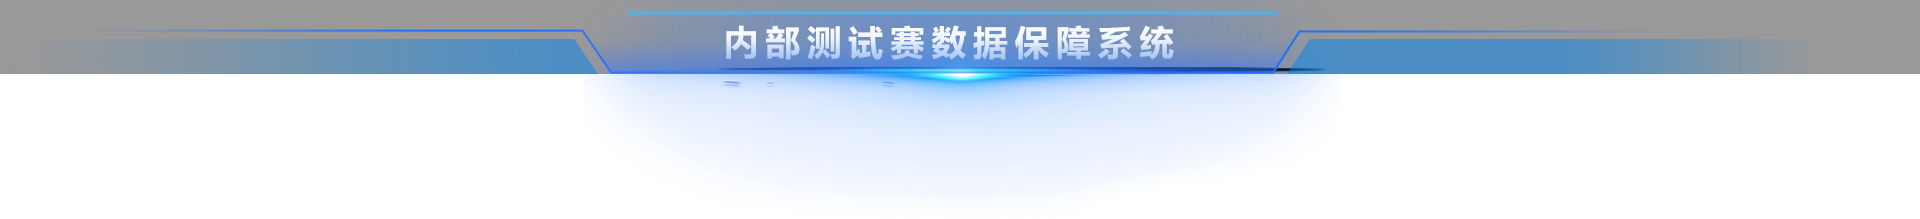
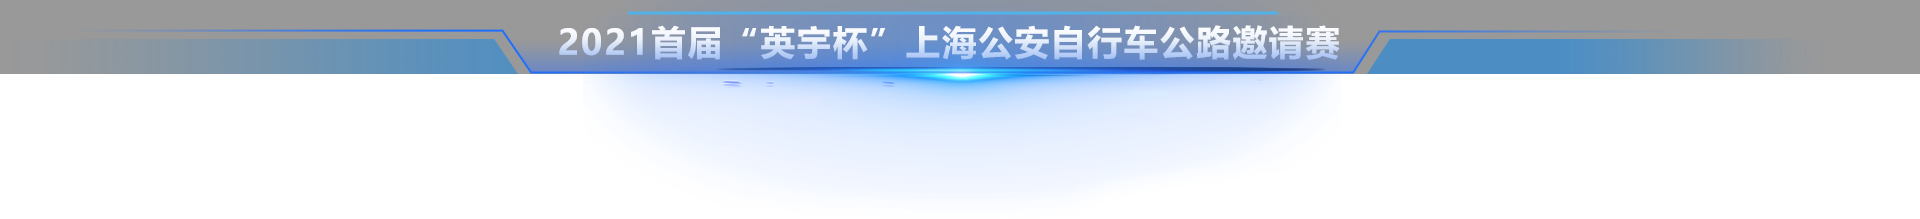
倒计时，直播地址，标题修改

Changed region(s): [[0.25, 0.1096, 0.7188, 0.3562]]

diff --git a/src/views/layout/time.vue b/src/views/layout/time.vue
@@ -14,7 +14,7 @@ export default {
     return {
       isStart: false,
       globalTimer: null, //获取setInterval对象值
-      countString: "0秒", //用来显示时间
+      countString: "", //用来显示时间
       day: 0,
       hour: 0,
       minute: 0,
@@ -59,10 +59,9 @@ export default {
     }
   },
   mounted () {
-    var vm = this;
-    if (vm.autoStart) {
-      vm.startCountFn();
-    }
+
+    this.countDown()
+
   },
   computed: {
     needSendSunc: function () {
@@ -79,6 +78,35 @@ export default {
   },
   components: {},
   methods: {
+    // 倒计时
+    countDown () {
+      const that = this;
+      //设置截止时间
+      let outTime = "2021-05-16 13:00:00"
+      // let outTime = "2021-05-16 13:00:00"
+      let endDate = new Date(outTime).getTime();
+      let timeID = setInterval(function () {
+        //获取当前时间
+        let date = new Date();
+        let startDate = date.getTime();
+        //时间差  
+        let leftTime = endDate - startDate;
+        if (leftTime >= 0) {
+          that.remainD = Math.floor(leftTime / 1000 / 60 / 60 / 24);
+          that.remainH = Math.floor(leftTime / 1000 / 60 / 60 % 24) + that.remainD * 24;
+          that.remainM = Math.floor(leftTime / 1000 / 60 % 60) < 10 ? '0' + Math.floor(leftTime / 1000 / 60 % 60) : Math.floor(leftTime / 1000 / 60 % 60);
+          that.remainS = Math.floor(leftTime / 1000 % 60) < 10 ? '0' + Math.floor(leftTime / 1000 % 60) : Math.floor(leftTime / 1000 % 60);
+          console.log(that.remainH + '时' + that.remainM + '分' + that.remainS + '秒')
+          that.countString = `${that.remainH < 10 ? '0' + that.remainH : that.remainH}:${that.remainM}:${that.remainS}`;
+        } else {
+          if (that.autoStart) {
+            that.startCountFn();
+          }
+          clearInterval(timeID);
+        }
+      }, 1000)
+    },
+    // 计算当前比赛进行时间
     counterFn: function (counterTime) {
       var vm = this;
       var nowDate = new Date().getTime();
@@ -95,15 +123,6 @@ export default {
       vm.hour = Math.floor(leave1 / (3600 * 1000)) < 10 ? '0' + Math.floor(leave1 / (3600 * 1000)) : Math.floor(leave1 / (3600 * 1000)); //计算相差小时
       vm.minute = Math.floor(leave2 / (60 * 1000)) < 10 ? '0' + Math.floor(leave2 / (60 * 1000)) : Math.floor(leave2 / (60 * 1000)); //计算相差分钟
       vm.second = Math.round(leave3 / 1000) < 10 ? '0' + Math.round(leave3 / 1000) : Math.round(leave3 / 1000); //计算相差秒
-      //   if (vm.day > 0) {
-      //     vm.countString = `${vm.day}天 ${vm.hour}小时 ${vm.minute}分 ${vm.second}秒`;
-      //   } else if (vm.hour > 0) {
-      //     vm.countString = `${vm.hour}小时 ${vm.minute}分 ${vm.second}秒`;
-      //   } else if (vm.minute > 0) {
-      //     vm.countString = `${vm.minute}分 ${vm.second}秒`;
-      //   } else {
-      //     vm.countString = `${vm.second}秒`;
-      //   }
       vm.countString = `${vm.hour}:${vm.minute}:${vm.second}`;
     },
     startCountFn: function () {

diff --git a/src/views/layout/index.vue b/src/views/layout/index.vue
@@ -143,7 +143,7 @@ export default {
       //初始化weosocket
       const wsuri = "ws://101.231.47.116:50000/cycling/realtime/socket";
       // const wsuri = "ws://192.168.1.106:8080/cycling/realtime/socket";
-      // const wsuri = "ws://192.168.1.104:8080/cycling/realtime/socket";
+      // const wsuri = "ws://192.168.1.103:8080/cycling/realtime/socket";
 
       // const wsuri = "ws://10.1.30.202:50000/cycling/realtime/socket";
       this.websock = new WebSocket(wsuri);
@@ -357,7 +357,8 @@ export default {
   .header-box {
     .vh(219);
     width: 100%;
-    background: url('../../assets/image/TOP@3x.png');
+    background: url('../../assets/image/TOP@3x.png') no-repeat;
+    background-size: 100% 100%;
     z-index: 10;
   }
   .left-box {

diff --git a/src/views/layout/rightBBox.vue b/src/views/layout/rightBBox.vue
@@ -16,7 +16,7 @@
           style="width: 100%; height: 100%; object-fit: fill"
         >
           <source
-            src="//bd.hls.huya.com/src/18358377-18358377-78848628822638592-36840210-10057-A-0-1.m3u8?ratio=2000&wsSecret=5f18674b2305e31a5ca37f50a1b63415&wsTime=6088e280&fm=RFdxOEJjSjNoNkRKdDZUWV8kMF8kMV8kMl8kMw%3D%3D&ctype=tars_mobile&txyp=o%3Acs7%3B&fs=bgct&&sphdcdn=al_7-tx_3-js_3-ws_7-bd_2-hw_2&sphdDC=huya&sphd=264_*-265_*&t=103"
+            src="https://m.huya.com/18566248?platform=7&from=7&shareid=17936502630180144380&shareUid=2311586290&source=android&pid=2311586290&share_fm=lianjie&share_by=2"
             type="application/x-mpegURL"
           />
         </video>

diff --git a/public/index.html b/public/index.html
@@ -6,7 +6,7 @@
     <meta name="viewport" content="width=device-width,initial-scale=1.0">
     <!-- <link rel="icon" href="<%= BASE_URL %>favicon.ico"> -->
     <link rel="stylesheet" href="https://a.amap.com/jsapi_demos/static/demo-center/css/demo-center.css"/>
-    <title><%= htmlWebpackPlugin.options.title %></title>
+    <title>2021首届“英宇杯”上海公安自行车公路邀请赛</title>
     <style>
       .amap-icon{
         overflow: visible !important;

diff --git a/vue.config.js b/vue.config.js
@@ -16,7 +16,7 @@ module.exports = {
         // target: 'http://10.1.30.202:50000/cycling',
         target: 'http://101.231.47.116:50000/cycling',
         // target: 'http://192.168.1.106:8080/cycling',
-        // target: 'http://192.168.1.104:8080/cycling',
+        // target: 'http://192.168.1.103:8080/cycling',
         // target: 'http://10.1.30.207:50045/api2db', // 测试
         changeOrigin: true,
         pathRewrite: {
